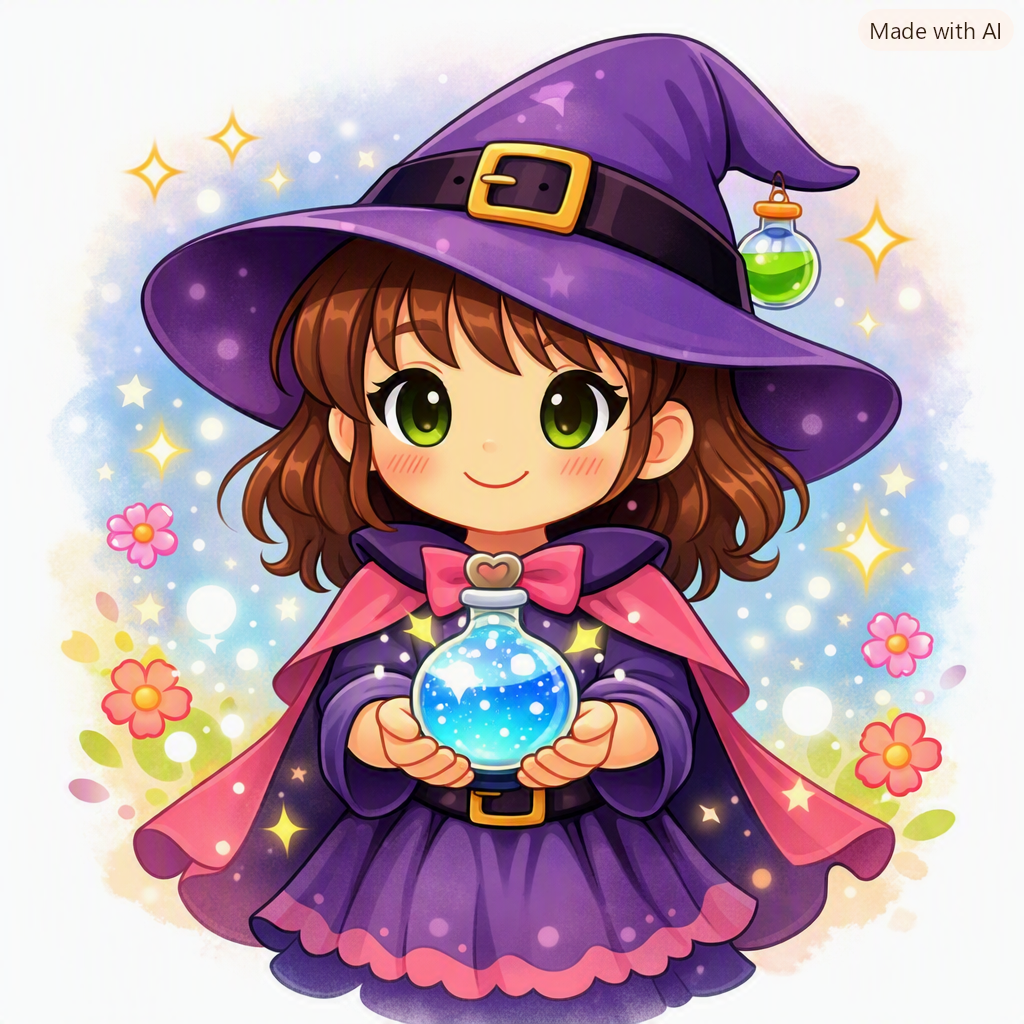
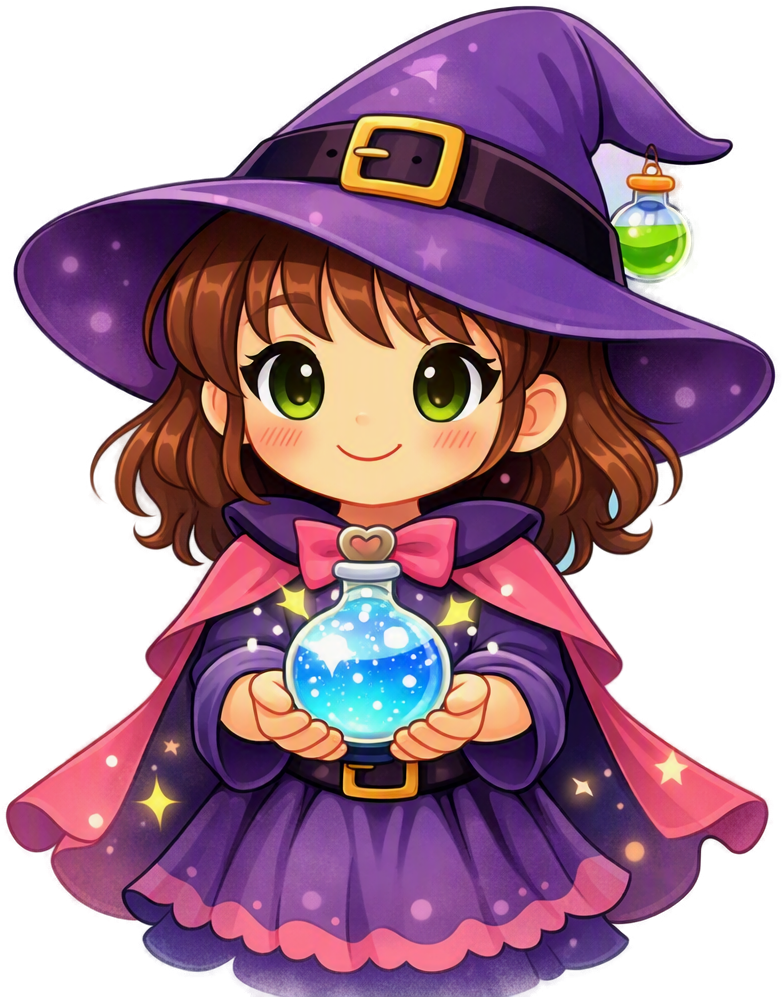
Witch's Poison: transparent witch art, group-order chooser, fullscreen
- Cut out the two witch images to transparent PNGs (drop the white/bokeh
  backgrounds); remove the now-unneeded mix-blend-mode hack
- Let the teacher pick which group hides its cards first, then choose the
  next group after each one finishes placing (instead of fixed 1→2→3 order)
- Add a fullscreen toggle button on both the setup and game screens

diff --git a/src/teachingTools/public/low-prep/witchs-poison/witchs-poison.js b/src/teachingTools/public/low-prep/witchs-poison/witchs-poison.js
@@ -151,6 +151,10 @@
     var resetButton = doc.getElementById('poison-reset-button');
     var cast = doc.getElementById('poison-cast');
     var banner = doc.getElementById('poison-banner');
+    var chooser = doc.getElementById('poison-chooser');
+    var chooserTitle = doc.getElementById('poison-chooser-title');
+    var chooserGroups = doc.getElementById('poison-chooser-groups');
+    var fullscreenButtons = Array.from(doc.querySelectorAll('.poison-fullscreen'));
     var prefersReducedMotion = false;
     try {
       prefersReducedMotion = !!(root().matchMedia && root().matchMedia('(prefers-reduced-motion: reduce)').matches);
@@ -171,9 +175,10 @@
         antidoteCards: new Set(),
         groups: [],
         phase: 'setup',
-        setupGroup: 1,
+        setupGroup: null,
         setupPoisonPicks: 0,
         setupAntidotePicks: 0,
+        placedGroups: new Set(),
         turnGroup: 1,
         flipped: 0,
         ended: false,
@@ -400,6 +405,7 @@
     }
 
     function updatePlacementPrompt() {
+      if (!state.setupGroup) return;
       var kind = placingKind();
       currentGroup.textContent = format(app.dataset.groupTemplate, { group: state.setupGroup });
       if (kind === 'antidote') {
@@ -461,18 +467,64 @@
         return;
       }
 
-      if (state.setupGroup < state.groupCount) {
-        state.setupGroup += 1;
-        state.setupPoisonPicks = 0;
-        state.setupAntidotePicks = 0;
-        // Hide this group's picks before the next group takes over.
-        resetPlacementBoard();
-        updatePlacementPrompt();
-        showBanner('handoff', format(app.dataset.handoffTitle, { group: state.setupGroup }), app.dataset.handoffSub);
+      // This group finished placing. Hide their picks, then let the teacher pick
+      // who goes next (or start the game once every group has placed).
+      state.placedGroups.add(state.setupGroup);
+      state.setupGroup = null;
+      resetPlacementBoard();
+      if (state.placedGroups.size < state.groupCount) {
+        showChooser(false);
         return;
       }
-
       finishPlacement();
+    }
+
+    // Which groups still need to place their cards.
+    function remainingSetupGroups() {
+      var remaining = [];
+      for (var g = 1; g <= state.groupCount; g += 1) {
+        if (!state.placedGroups.has(g)) remaining.push(g);
+      }
+      return remaining;
+    }
+
+    // Ask the teacher which group places next.
+    function showChooser(isFirst) {
+      if (!chooser) return;
+      var remaining = remainingSetupGroups();
+      chooserTitle.textContent = isFirst ? app.dataset.chooserFirstTitle : app.dataset.chooserNextTitle;
+      chooserGroups.textContent = '';
+      remaining.forEach(function (groupNumber) {
+        var button = doc.createElement('button');
+        button.type = 'button';
+        button.className = 'poison-chooser-group';
+        button.dataset.group = String(groupNumber);
+        button.textContent = format(app.dataset.groupTemplate, { group: groupNumber });
+        chooserGroups.appendChild(button);
+      });
+      boardPrompt.textContent = '';
+      chooser.hidden = false;
+      chooser.setAttribute('aria-hidden', 'false');
+      var firstButton = chooserGroups.querySelector('button');
+      if (firstButton) firstButton.focus();
+    }
+
+    function hideChooser() {
+      if (!chooser) return;
+      chooser.hidden = true;
+      chooser.setAttribute('aria-hidden', 'true');
+      chooserGroups.textContent = '';
+    }
+
+    function startGroupPlacement(groupNumber) {
+      hideChooser();
+      state.setupGroup = groupNumber;
+      state.setupPoisonPicks = 0;
+      state.setupAntidotePicks = 0;
+      resetPlacementBoard();
+      updatePlacementPrompt();
+      var firstCard = cardGrid.querySelector('button');
+      if (firstCard) firstCard.focus();
     }
 
     function finishPlacement() {
@@ -640,6 +692,7 @@
       state = blankState();
       if (cast) { cast.hidden = true; cast.textContent = ''; }
       if (banner) { banner.hidden = true; banner.textContent = ''; }
+      hideChooser();
       roster.textContent = '';
       game.hidden = true;
       setup.hidden = false;
@@ -715,7 +768,7 @@
       state.antidotesPerGroup = antidotesPerGroup;
       state.groups = makeGroups(groupCount);
       state.phase = 'poison-setup';
-      state.setupGroup = 1;
+      state.setupGroup = null;
       state.setupPoisonPicks = 0;
       state.setupAntidotePicks = 0;
 
@@ -725,8 +778,8 @@
       gameStatus.classList.remove('is-ended');
       renderRoster();
       renderBoard();
-      var firstCard = cardGrid.querySelector('button');
-      if (firstCard) firstCard.focus();
+      // Let the teacher choose which group hides its cards first.
+      showChooser(true);
     });
 
     cardGrid.addEventListener('click', chooseCard);
@@ -735,7 +788,51 @@
       if (!cureButton) return;
       useAntidote(Number(cureButton.dataset.group));
     });
+    if (chooserGroups) {
+      chooserGroups.addEventListener('click', function (event) {
+        var groupButton = event.target.closest('.poison-chooser-group');
+        if (!groupButton) return;
+        startGroupPlacement(Number(groupButton.dataset.group));
+      });
+    }
     resetButton.addEventListener('click', resetGame);
+
+    // ----- Fullscreen -------------------------------------------------------
+    function fullscreenElement() {
+      var d = doc;
+      return d.fullscreenElement || d.webkitFullscreenElement || d.msFullscreenElement || null;
+    }
+    function updateFullscreenButtons() {
+      var active = !!fullscreenElement();
+      fullscreenButtons.forEach(function (button) {
+        button.textContent = active ? button.dataset.exitLabel : button.dataset.enterLabel;
+        button.setAttribute('aria-pressed', active ? 'true' : 'false');
+      });
+    }
+    function toggleFullscreen() {
+      var d = doc;
+      var el = d.documentElement;
+      try {
+        var result;
+        if (fullscreenElement()) {
+          result = (d.exitFullscreen || d.webkitExitFullscreen || d.msExitFullscreen || function () {}).call(d);
+        } else {
+          result = (el.requestFullscreen || el.webkitRequestFullscreen || el.msRequestFullscreen || function () {}).call(el);
+        }
+        if (result && typeof result.catch === 'function') result.catch(function () {});
+      } catch (_) { /* fullscreen may be blocked in some contexts */ }
+    }
+    if (fullscreenButtons.length) {
+      var fsSupported = !!(doc.documentElement.requestFullscreen || doc.documentElement.webkitRequestFullscreen || doc.documentElement.msRequestFullscreen);
+      fullscreenButtons.forEach(function (button) {
+        if (!fsSupported) { button.hidden = true; return; }
+        button.addEventListener('click', toggleFullscreen);
+      });
+      doc.addEventListener('fullscreenchange', updateFullscreenButtons);
+      doc.addEventListener('webkitfullscreenchange', updateFullscreenButtons);
+      updateFullscreenButtons();
+    }
+
     renderSavedList();
     updateCardCount();
   }

diff --git a/src/teachingTools/public/low-prep/witchs-poison/witchs-poison.css b/src/teachingTools/public/low-prep/witchs-poison/witchs-poison.css
@@ -434,9 +434,7 @@
 .poison-cast-img {
   width: clamp(150px, 34vw, 260px);
   height: auto;
-  /* Drops a white PNG background against the light board. */
-  mix-blend-mode: multiply;
-  filter: drop-shadow(0 14px 30px rgba(30, 8, 60, .25));
+  filter: drop-shadow(0 14px 30px rgba(30, 8, 60, .35));
 }
 .poison-cast-emoji { display: none; font-size: clamp(4rem, 15vw, 8rem); line-height: 1; filter: drop-shadow(0 10px 24px rgba(30, 8, 60, .4)); }
 .poison-cast-emoji.is-visible { display: block; }
@@ -475,6 +473,64 @@
   60% { opacity: 1; transform: scale(1) rotate(-12deg); }
   100% { opacity: 0; transform: scale(1.4) rotate(30deg); }
 }
+
+/* ---- Group chooser (who places next) ---- */
+.poison-chooser {
+  position: fixed;
+  z-index: 1002;
+  inset: 0;
+  display: grid;
+  place-items: center;
+  padding: 24px;
+  background: rgba(30, 8, 60, .82);
+  animation: poison-fade-in 220ms ease both;
+}
+.poison-chooser[hidden] { display: none; }
+
+.poison-chooser-card {
+  width: min(560px, 100%);
+  padding: 32px 28px;
+  border: 4px solid #ffd85d;
+  border-radius: 26px;
+  background: linear-gradient(145deg, #6a3bb0, #341a63);
+  box-shadow: 0 30px 80px rgba(14, 2, 34, .55);
+  color: #fff;
+  text-align: center;
+}
+
+.poison-chooser-title {
+  margin: 0 0 20px;
+  font-size: clamp(1.5rem, 4.5vw, 2.3rem);
+  font-weight: 900;
+  line-height: 1.2;
+}
+
+.poison-chooser-groups {
+  display: grid;
+  grid-template-columns: repeat(auto-fit, minmax(120px, 1fr));
+  gap: 12px;
+}
+
+.poison-chooser-group {
+  min-height: 60px;
+  padding: 14px 16px;
+  border: 2px solid #ffd85d;
+  border-radius: 14px;
+  background: rgba(255, 255, 255, .12);
+  color: #fff;
+  cursor: pointer;
+  font: inherit;
+  font-size: 1.15rem;
+  font-weight: 900;
+  transition: transform 140ms ease, background-color 140ms ease;
+}
+.poison-chooser-group:hover { transform: translateY(-2px); background: #ffd85d; color: #341a63; }
+.poison-chooser-group:active { transform: translateY(1px); }
+
+@keyframes poison-fade-in { from { opacity: 0; } to { opacity: 1; } }
+
+/* Fullscreen button on the setup screen spans the form width. */
+.poison-fullscreen-setup { display: block; width: 100%; margin-top: 12px; }
 
 /* ---- Big banner (game start / game over) ---- */
 .poison-banner {

diff --git a/src/teachingTools/locales/translations.js b/src/teachingTools/locales/translations.js
@@ -543,8 +543,10 @@ module.exports = {
       useAntidoteLabel: '💊 Use antidote',
       poisonCastLabel: 'A poison is cast…',
       antidoteCastLabel: 'An antidote is brewed…',
-      handoffTitle: 'Group {group}, your turn',
-      handoffSub: 'Cards are flipped back — the last group’s picks are hidden.',
+      chooserFirstTitle: 'Which group hides its cards first?',
+      chooserNextTitle: 'Which group goes next?',
+      fullscreenEnter: '⛶ Fullscreen',
+      fullscreenExit: '⛶ Exit fullscreen',
       gameStartTitle: 'Game Start!',
       gameStartSub: 'Poisons are hidden. Let the reading begin!',
       gameOverTitle: 'Game Over',
@@ -1735,8 +1737,10 @@ module.exports = {
       useAntidoteLabel: '💊 使用解药',
       poisonCastLabel: '女巫正在下毒……',
       antidoteCastLabel: '女巫正在熬制解药……',
-      handoffTitle: '轮到第 {group} 组',
-      handoffSub: '卡片已翻回，上一组的设置已藏好。',
+      chooserFirstTitle: '哪个小组先来藏卡片？',
+      chooserNextTitle: '下一个轮到哪一组？',
+      fullscreenEnter: '⛶ 全屏',
+      fullscreenExit: '⛶ 退出全屏',
       gameStartTitle: '游戏开始！',
       gameStartSub: '毒药已藏好，开始朗读闯关吧！',
       gameOverTitle: '游戏结束',
